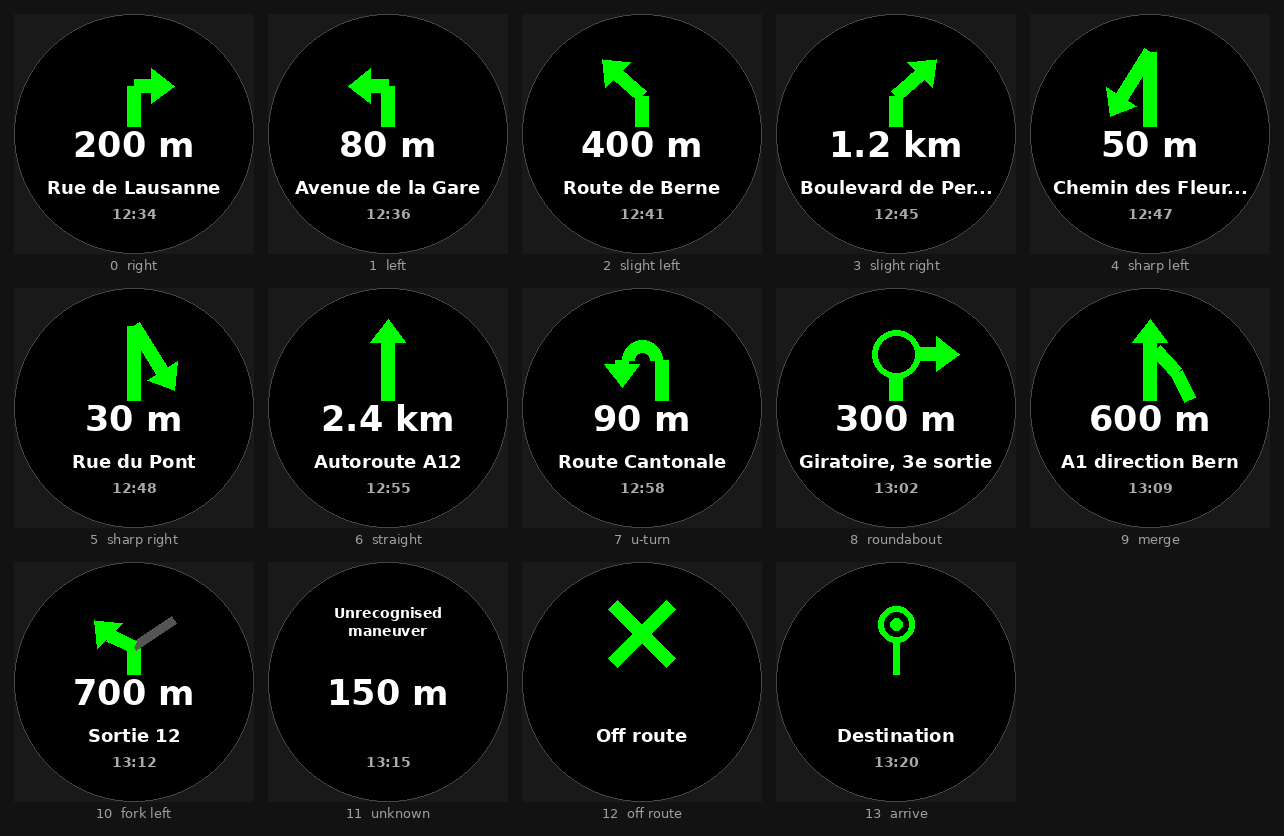
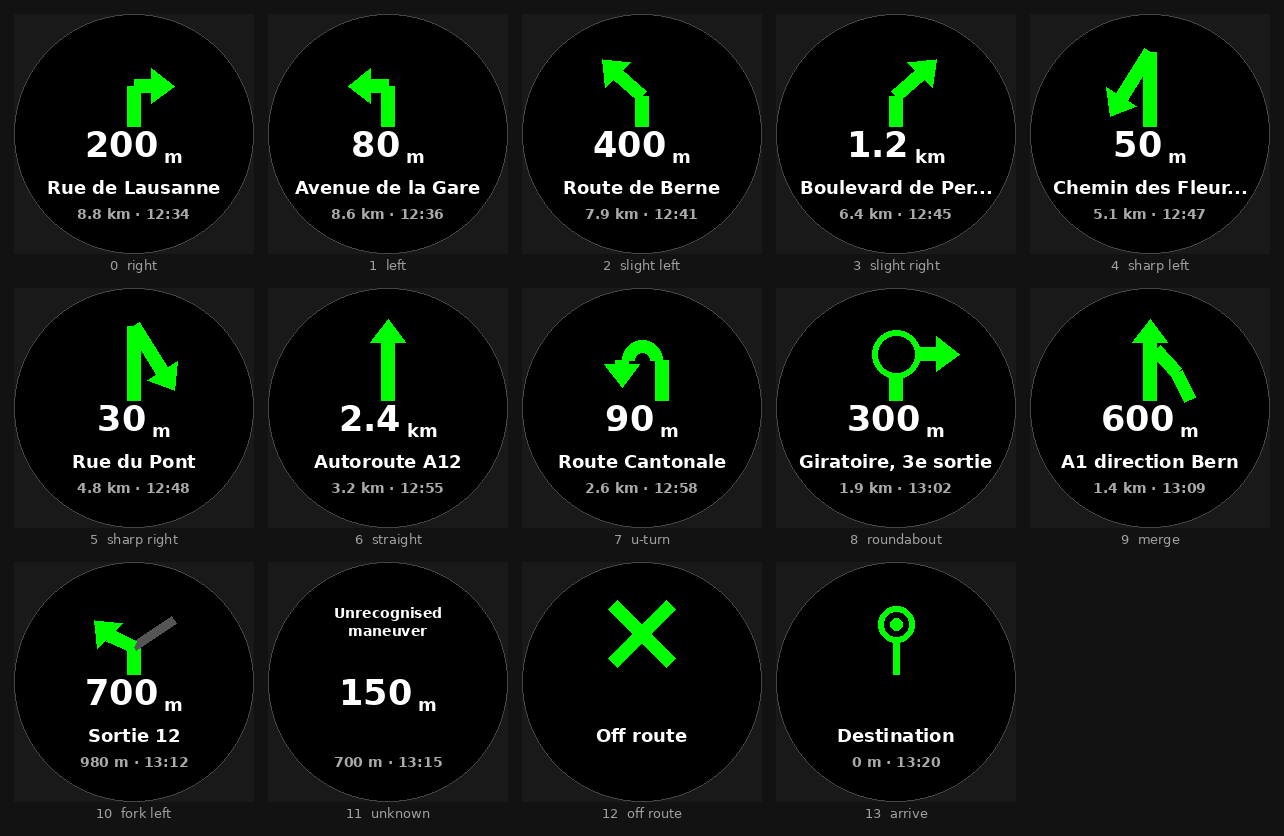
Show the distance units, and the trip total, on the watch
Three things, all on the display.

**The units were never drawn.** The distance is rendered in
FONT_NUMBER_MEDIUM, which on the fr745 is a digits-and-separators font
with no letters in it at all, so "348 m" came out as "348" and the unit
silently vanished. Draw the number and the unit in separate fonts with
their bottoms aligned, which reads better than one smaller font anyway.

tools/preview.py never caught this because it draws everything in
DejaVu, which has every glyph, so the offline sheet cheerfully showed
"200 m" while the watch showed "200". It now splits the draw the same
way, so at least the geometry is modelled honestly.

**Distance left to the destination is new.** OsmAnd's summary line is
"5.59 km - 23 min - 12:51 PM - 101 km/h" and the first field is the
remaining distance; it is anchored to the start of the line so the
trailing "101 km/h" cannot be mistaken for it. It travels as "r", a new
field in the payload contract, so the watch app must be reflashed.

**The footer now carries both** the trip total and the ETA, joined only
when both exist so a lone separator never appears. They are both about
the journey rather than the next turn, so they share the smallest type.

"r" is deliberately left out of the change test that drives sends: it
ticks down continuously and would otherwise trigger a message on its own
every time it moved.

diff --git a/android/app/src/main/java/com/mapsrelay/companion/OsmAndNotificationParser.kt b/android/app/src/main/java/com/mapsrelay/companion/OsmAndNotificationParser.kt
@@ -48,6 +48,8 @@ object OsmAndNotificationParser {
     data class NavInfo(
         val street: String,
         val eta: String,
+        /** Distance still to travel to the destination, e.g. "8.8 km". */
+        val remaining: String,
         val arrived: Boolean,
     )
 
@@ -72,9 +74,14 @@ object OsmAndNotificationParser {
         // The summary is bullet-separated; an instruction line never is.
         val instructionLine = lines.firstOrNull { !it.contains(BULLET) }.orEmpty()
 
+        // The summary line is the bullet-separated one; the instruction line
+        // never contains a bullet.
+        val summary = lines.firstOrNull { it.contains(BULLET) }.orEmpty()
+
         return NavInfo(
             street = streetOf(title, instructionLine),
             eta = etaOf(lines + title),
+            remaining = remainingOf(summary),
             arrived = looksLikeArrival(title) || looksLikeArrival(instructionLine),
         )
     }
@@ -102,6 +109,19 @@ object OsmAndNotificationParser {
         // maneuvers that reads "0 m • ", which is worse than showing nothing.
         return s.ifEmpty { instruction }
     }
+
+    /**
+     * Distance left to the destination, from the summary line
+     * `"5.59 km • 23 min • 12:51 PM • 101 km/h"` — the first field.
+     *
+     * Anchored to the start rather than searched for, so the trailing
+     * `"101 km/h"` cannot be mistaken for a distance.
+     */
+    private fun remainingOf(summary: String): String =
+        LEADING_DISTANCE.find(summary)?.value?.trim().orEmpty()
+
+    private val LEADING_DISTANCE =
+        Regex("""^\s*[\d.,]+\s*(m|km|ft|mi|yd)\b""", RegexOption.IGNORE_CASE)
 
     /** A distance at the very end of the line: "60 m", "1.64 km", "500 ft". */
     private val TRAILING_DISTANCE =

diff --git a/android/app/src/main/java/com/mapsrelay/companion/Relay.kt b/android/app/src/main/java/com/mapsrelay/companion/Relay.kt
@@ -31,6 +31,8 @@ object Relay {
      *  read on a Binder thread when a turn arrives. */
     @Volatile var street = ""
     @Volatile var eta = ""
+    /** Distance still to travel to the destination, e.g. "8.8 km". */
+    @Volatile var remaining = ""
     @Volatile var arrived = false
 
     /** Reset between routes so a new one is not deduped against the last. */
@@ -40,6 +42,7 @@ object Relay {
         lastDistanceText = ""
         street = ""
         eta = ""
+        remaining = ""
         arrived = false
     }
 
@@ -108,6 +111,10 @@ object Relay {
             "d" to text,
             "s" to street,
             "e" to eta,
+            // Trip total, not the next turn. Deliberately absent from the
+            // change test above: it ticks down constantly and would otherwise
+            // drive a send on its own every time it moved.
+            "r" to remaining,
             "dm" to dm,
         )
         val ok = WatchRelay.send(payload)

diff --git a/android/app/src/main/java/com/mapsrelay/companion/NavListener.kt b/android/app/src/main/java/com/mapsrelay/companion/NavListener.kt
@@ -71,6 +71,7 @@ class NavListener : NotificationListenerService() {
             val info = OsmAndNotificationParser.parse(sbn!!) ?: return
             Relay.street = info.street
             Relay.eta = info.eta
+            Relay.remaining = info.remaining
             Relay.arrived = info.arrived
             Status.navActive = true
             startRelayForeground()

diff --git a/maps-relay/tools/preview.py b/maps-relay/tools/preview.py
@@ -212,7 +212,38 @@ def wrap(d, text, f, max_w, max_lines):
     return out
 
 
-def render(m, distance, street, eta, stale=False):
+def draw_distance(d, cx, y, text, fg):
+    """Mirror of NavView.drawDistance: big number, small unit beside it.
+
+    FONT_NUMBER_MEDIUM on the real device is a digits-and-separators font with
+    no letters at all, so drawing "348 m" through it renders "348" and the unit
+    silently vanishes. This preview draws everything in DejaVu, which has every
+    glyph, so it cheerfully showed "200 m" for months while the watch showed
+    "200". Splitting the draw here keeps the geometry honest; UNIT_SAFE below
+    keeps the font limitation honest.
+    """
+    num, _, unit = text.partition(" ")
+    nf, uf = font("NUMBER_MEDIUM"), font("SMALL")
+    nw = d.textlength(num, font=nf)
+    gap = d.textlength(" ", font=uf) if unit else 0
+    uw = d.textlength(unit, font=uf) if unit else 0
+    x = cx - (nw + gap + uw) / 2
+    d.text((x, y), num, font=nf, fill=fg, anchor="la")
+    if unit:
+        drop = FONTS["NUMBER_MEDIUM"] - FONTS["SMALL"]
+        d.text((x + nw + gap, y + drop), unit, font=uf, fill=fg, anchor="la")
+
+
+def join_footer(left, right):
+    """Mirror of NavView.joinFooter."""
+    if not left:
+        return right
+    if not right:
+        return left
+    return f"{left} \u00b7 {right}"
+
+
+def render(m, distance, street, eta, remaining="", stale=False):
     """Mirror of NavView.drawNav."""
     img = Image.new("RGB", (W, H), (0, 0, 0))
     d = ImageDraw.Draw(img)
@@ -236,8 +267,7 @@ def render(m, distance, street, eta, stale=False):
         draw_maneuver(d, m, cx, int(H * 0.30), arrow_size, accent)
 
     if distance:
-        f = font("NUMBER_MEDIUM")
-        d.text((cx, int(H * 0.46)), distance, font=f, fill=fg, anchor="ma")
+        draw_distance(d, cx, int(H * 0.46), distance, fg)
 
     if m != UNKNOWN:
         f = font("SMALL")
@@ -245,7 +275,7 @@ def render(m, distance, street, eta, stale=False):
                font=f, fill=fg, anchor="ma")
 
     f = font("XTINY")
-    footer = "no signal" if stale else eta
+    footer = "no signal" if stale else join_footer(remaining, eta)
     d.text((cx, int(H * 0.80)), footer, font=f,
            fill=ORANGE if stale else LTGRAY, anchor="ma")
 
@@ -264,20 +294,20 @@ def sheet():
     (see source/Demo.mc). Keeping them aligned is the point: compare this
     image against the watch to check the real panel agrees."""
     cases = [
-        (RIGHT, "200 m", "Rue de Lausanne", "12:34"),
-        (LEFT, "80 m", "Avenue de la Gare", "12:36"),
-        (SLIGHT_LEFT, "400 m", "Route de Berne", "12:41"),
-        (SLIGHT_RIGHT, "1.2 km", "Boulevard de Perolles very long name", "12:45"),
-        (SHARP_LEFT, "50 m", "Chemin des Fleurettes", "12:47"),
-        (SHARP_RIGHT, "30 m", "Rue du Pont", "12:48"),
-        (STRAIGHT, "2.4 km", "Autoroute A12", "12:55"),
-        (UTURN, "90 m", "Route Cantonale", "12:58"),
-        (ROUNDABOUT, "300 m", "Giratoire, 3e sortie", "13:02"),
-        (MERGE, "600 m", "A1 direction Bern", "13:09"),
-        (FORK_LEFT, "700 m", "Sortie 12", "13:12"),
-        (UNKNOWN, "150 m", "Unrecognised maneuver", "13:15"),
-        (OFF_ROUTE, "", "Off route", ""),
-        (ARRIVE, "", "Destination", "13:20"),
+        (RIGHT, "200 m", "Rue de Lausanne", "12:34", "8.8 km"),
+        (LEFT, "80 m", "Avenue de la Gare", "12:36", "8.6 km"),
+        (SLIGHT_LEFT, "400 m", "Route de Berne", "12:41", "7.9 km"),
+        (SLIGHT_RIGHT, "1.2 km", "Boulevard de Perolles very long name", "12:45", "6.4 km"),
+        (SHARP_LEFT, "50 m", "Chemin des Fleurettes", "12:47", "5.1 km"),
+        (SHARP_RIGHT, "30 m", "Rue du Pont", "12:48", "4.8 km"),
+        (STRAIGHT, "2.4 km", "Autoroute A12", "12:55", "3.2 km"),
+        (UTURN, "90 m", "Route Cantonale", "12:58", "2.6 km"),
+        (ROUNDABOUT, "300 m", "Giratoire, 3e sortie", "13:02", "1.9 km"),
+        (MERGE, "600 m", "A1 direction Bern", "13:09", "1.4 km"),
+        (FORK_LEFT, "700 m", "Sortie 12", "13:12", "980 m"),
+        (UNKNOWN, "150 m", "Unrecognised maneuver", "13:15", "700 m"),
+        (OFF_ROUTE, "", "Off route", "", ""),
+        (ARRIVE, "", "Destination", "13:20", "0 m"),
     ]
     cols, pad = 5, 14
     rows = (len(cases) + cols - 1) // cols
@@ -288,11 +318,11 @@ def sheet():
         (18, 18, 18))
     dd = ImageDraw.Draw(sheet_img)
     lf = ImageFont.truetype(f"{FONT_DIR}/DejaVuSans.ttf", 13)
-    for i, (m, dist, street, eta) in enumerate(cases):
+    for i, (m, dist, street, eta, rem) in enumerate(cases):
         r, c = divmod(i, cols)
         x = pad + c * (W + pad)
         y = pad + r * (H + pad + label_h)
-        sheet_img.paste(render(m, dist, street, eta), (x, y))
+        sheet_img.paste(render(m, dist, street, eta, rem), (x, y))
         dd.text((x + W // 2, y + H + 3), f"{i}  {NAMES[m]}", font=lf,
                 fill=(160, 160, 160), anchor="ma")
     return sheet_img
